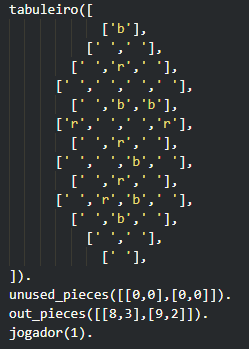
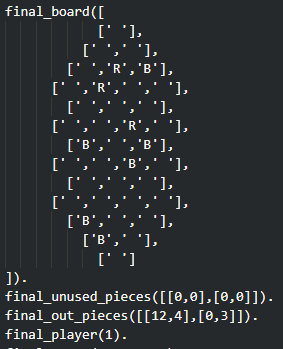
eyeyeyeyeyeye

diff --git a/README.md b/README.md
@@ -40,11 +40,11 @@ Rulebook: https://nestorgames.com/rulebooks/GAUSS_EN.pdf
 
 - Peças recolhidas serão guardadas de maneira idêntica às que ainda não foram jogadas só que cada index em vez de representar uma cor, representa área de bónus ou risco.
 
-- O jogador atual será guardado como um inteiro que terá o valor de 1 ou 2 para indicar o turno.
+- O jogador atual será guardado como um inteiro que terá o valor de 0 ou 1 para indicar o turno.
 
 - O estado de jogo a cada instante é constituído pelo tabuleiro, as peças por jogar, as peças na zona de bónus e risco de cada jogador e finalmente de quem é a vez de colocar uma peça no tabuleiro.
 
-- Internamente no tabuleiro ' ', 'r' e 'b' representam vazio, peça vermelha e peça azul, respetivamente. 
+- Internamente no tabuleiro ' ', 'R' e 'B' representam vazio, peça vermelha e peça azul, respetivamente. 
 
 -  O tabuleiro, peças por jogar e peças na zonas de  recolha serão iniciados assim: 
 >![estado inicial](./img/estado_inicial.png)
@@ -59,6 +59,12 @@ Rulebook: https://nestorgames.com/rulebooks/GAUSS_EN.pdf
 ## Visualização do estado de jogo
 O predicado responsável pela visualização do estado de jogo a cada instante recebe o tabuleiro, peças por jogar, peças recolhidas, o turno e um elemento extra que começa em 1 e vai sendo iterado para saber qual a fila a desenhar dado que desenhar um tabuleiro com espaços hexagonais com elementos ASCII é relativamente complexo. A cada fila remove-se a HEAD da cópia da lista do tabuleiro para se desenhar os valores certos no tabuleiro. 
 
-Acima do tabuleiro terá 4 números (2 de cada lado) para representar a quantidade de peças de cada cor dos jogadores.
+Acima do tabuleiro será indicado o número de peças que cada jogador ainda dispõe para jogar. Para além disso, no meio dessa informação será escrito quem é a próxima jogada. 
 
-Novamente dentro do tabuleiro, cada canto será identificado como zona de bónus ou risco de cada jogador e terá um inteiro que vai ser atualizado quando for necessário mover uma peça do interior do tabuleiro para a respetiva zona.
+Novamente dentro do tabuleiro, cada canto será identificado como zona de bónus ou risco de cada jogador e terá um inteiro que representa o número de peças efetivamente nessa zona. Este inteiro será atualizado quando for necessário mover uma peça do interior do tabuleiro para a respetiva zona.
+
+O output deste predicado num estado inicial, intermédio e final seria respetivamente: 
+
+>![output inicial](./img/output_inicial.png)
+>![output intermédio](./img/output_int.png)
+>![output final](./img/output_final.png)
